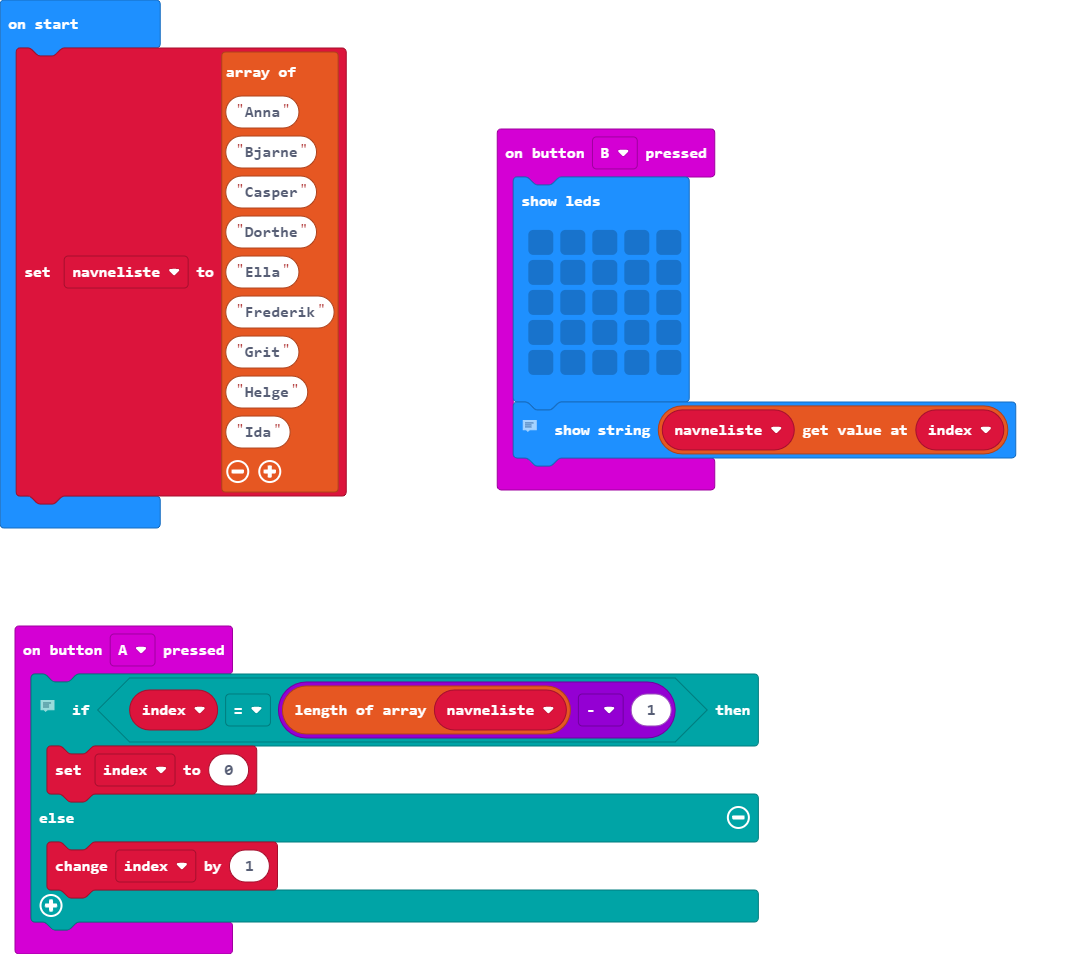
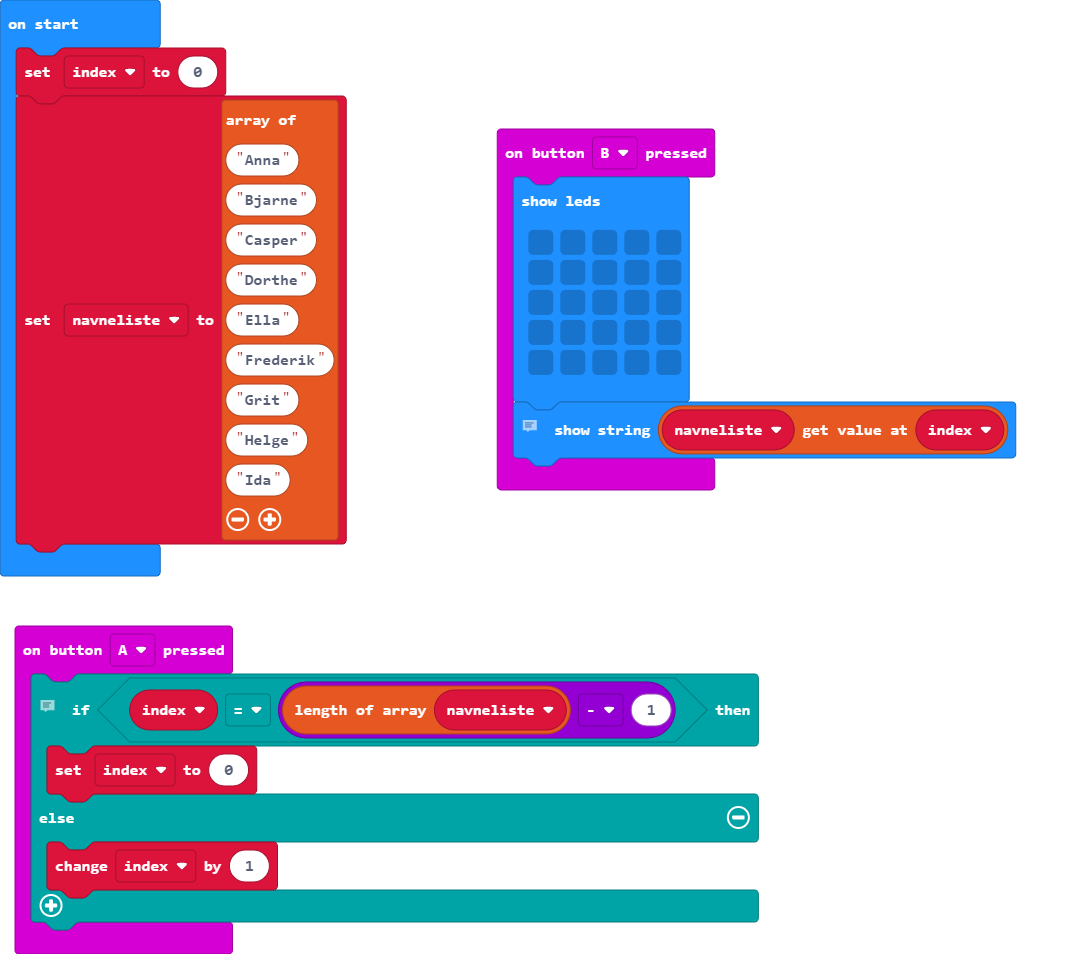
Update main.blocks, main.ts

Changed region(s): [[0.0, 0.0304, 0.3399, 0.608]]

diff --git a/main.ts b/main.ts
@@ -17,8 +17,9 @@ input.onButtonPressed(Button.B, function () {
     // Vis navnet på skærmen ved at finde navnet på listen på pladsen som index har
     basic.showString("" + (navneliste[index]))
 })
-let index = 0
 let navneliste: string[] = []
+let index = 0
+index = 0
 navneliste = [
 "Anna",
 "Bjarne",
